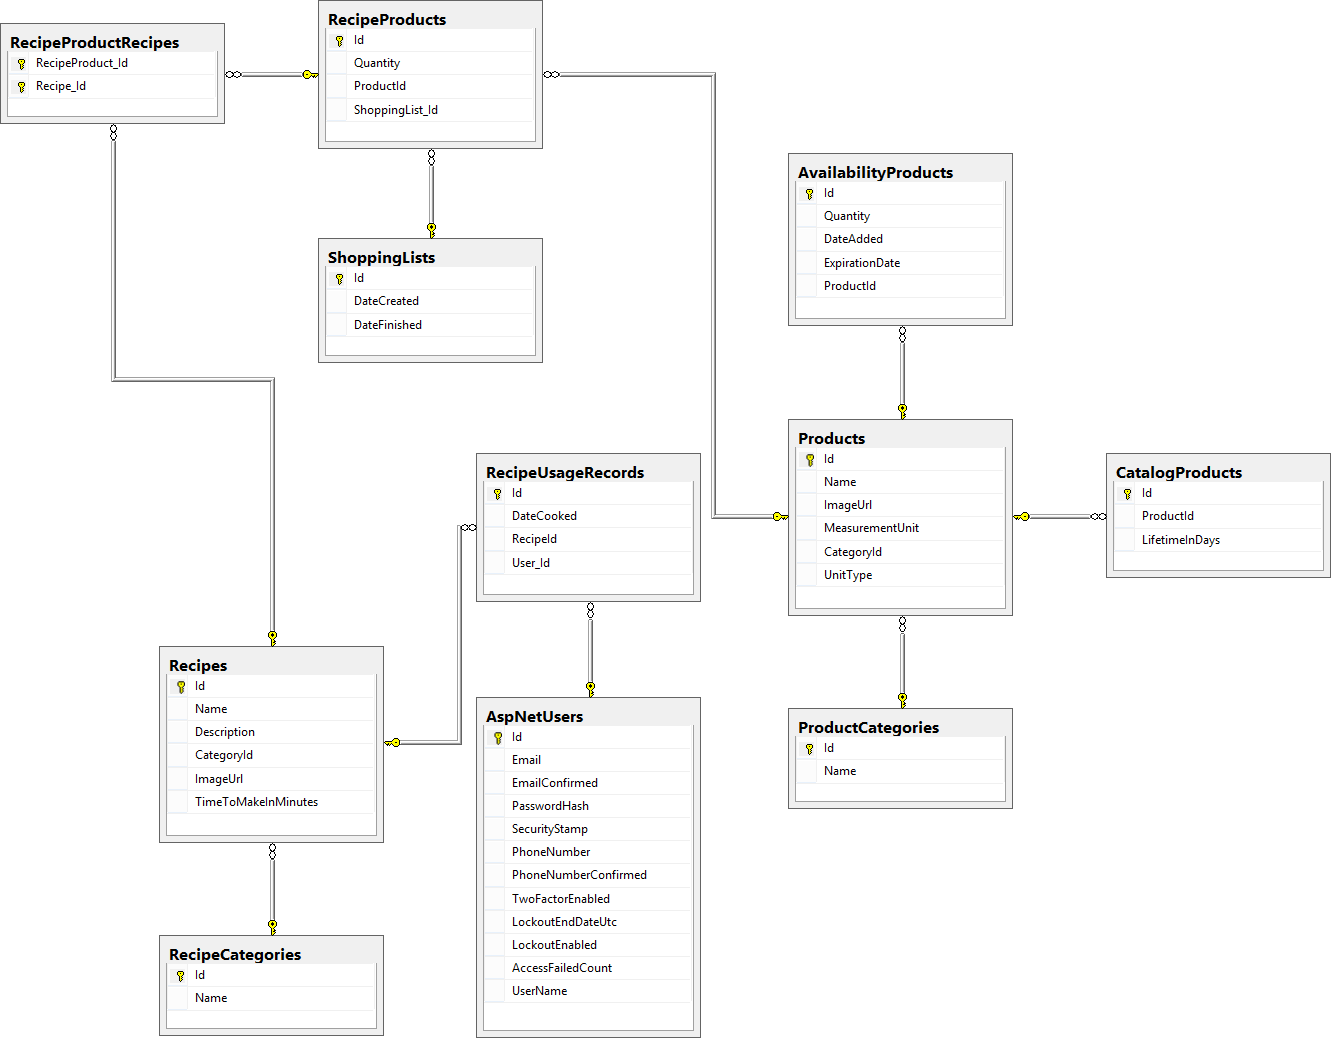
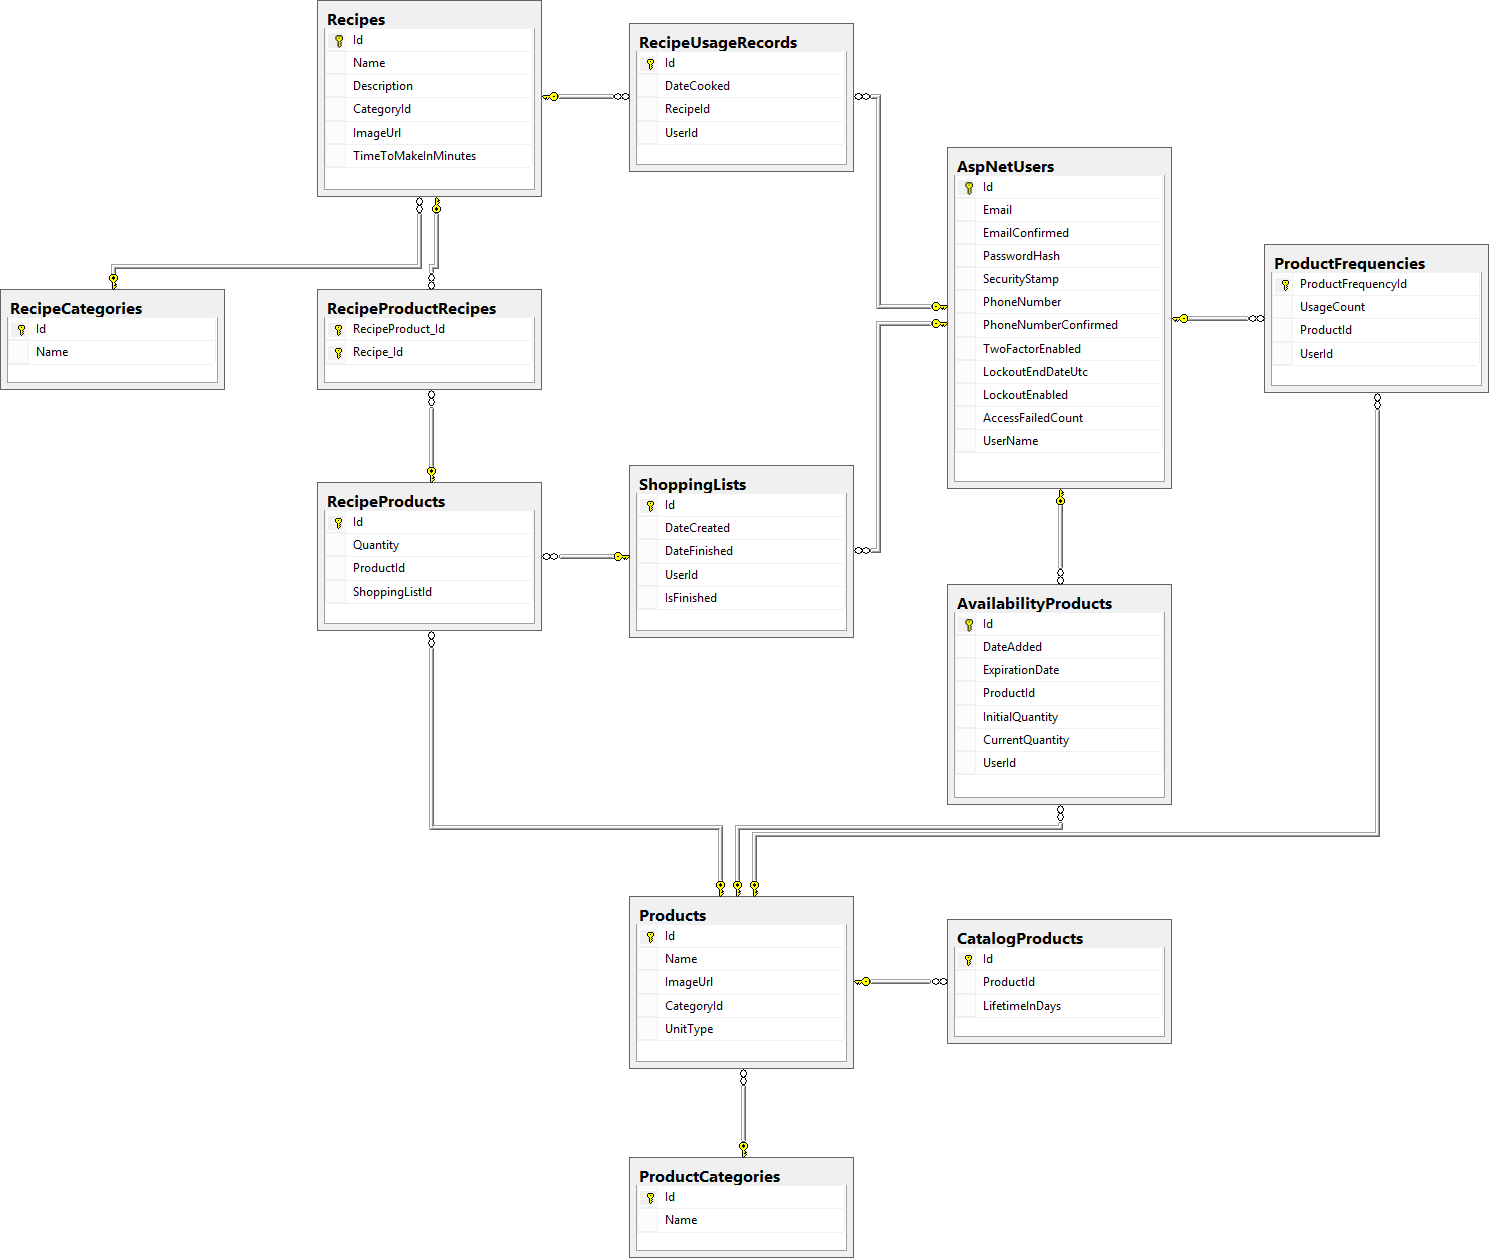
Models Updated, Diagram Updated, UoW Updated

diff --git a/YourFood.Services/Controllers/OData/ProductFrequenciesController.cs b/YourFood.Services/Controllers/OData/ProductFrequenciesController.cs
@@ -1,0 +1,137 @@
+namespace YourFood.Services.Controllers.OData
+{
+    using System;
+    using System.Data.Entity.Infrastructure;
+    using System.Linq;
+    using System.Net;
+    using System.Web.Http;
+    using System.Web.Http.OData;
+    using YourFood.Data.UoW;
+    using YourFood.Models;
+
+    public class ProductFrequenciesController : BaseODataController
+    {
+        public ProductFrequenciesController(IYourFoodData yourFoodData)
+            : base(yourFoodData)
+        {
+        }
+
+        // GET: api/ProductFrequencies
+        [EnableQuery]
+        public IQueryable<ProductFrequency> GetProductFrequencies()
+        {
+            return this.Data.ProductFrequencies.All();
+        }
+
+        // GET: api/ProductFrequencies(5)
+        [EnableQuery]
+        public SingleResult<ProductFrequency> GetProductFrequency([FromODataUri]
+                                                                  int key)
+        {
+            var product = this.Data.ProductFrequencies
+                              .All()
+                              .Where(productFrequency => productFrequency.ProductFrequencyId == key);
+
+            return SingleResult.Create(product);
+        }
+
+        // PUT: api/ProductFrequencies(5)
+        public IHttpActionResult Put([FromODataUri]
+                                     int key, Delta<ProductFrequency> patch)
+        {
+            this.Validate(patch.GetEntity());
+
+            if (!this.ModelState.IsValid)
+            {
+                return this.BadRequest(this.ModelState);
+            }
+
+            ProductFrequency productFrequency = this.Data.ProductFrequencies.Find(key);
+            if (productFrequency == null)
+            {
+                return this.NotFound();
+            }
+
+            patch.Put(productFrequency);
+
+            try
+            {
+                this.Data.SaveChanges();
+            }
+            catch (DbUpdateConcurrencyException)
+            {
+                if (!this.ProductFrequencyExists(key))
+                {
+                    return this.NotFound();
+                }
+                else
+                {
+                    throw;
+                }
+            }
+
+            return this.Updated(productFrequency);
+        }
+
+        // POST: api/ProductFrequencies
+        public IHttpActionResult Post(ProductFrequency productFrequency)
+        {
+            if (!this.ModelState.IsValid)
+            {
+                return this.BadRequest(this.ModelState);
+            }
+
+            this.Data.ProductFrequencies.Add(productFrequency);
+            this.Data.SaveChanges();
+
+            return this.Created(productFrequency);
+        }
+
+        // DELETE: api/ProductFrequencies(5)
+        public IHttpActionResult Delete([FromODataUri]
+                                        int key)
+        {
+            ProductFrequency productFrequency = this.Data.ProductFrequencies.Find(key);
+            if (productFrequency == null)
+            {
+                return this.NotFound();
+            }
+
+            this.Data.ProductFrequencies.Delete(productFrequency);
+            this.Data.SaveChanges();
+
+            return this.StatusCode(HttpStatusCode.NoContent);
+        }
+
+        // GET: api/ProductFrequencies(5)/Product
+        [EnableQuery]
+        public SingleResult<Product> GetProduct([FromODataUri]
+                                                int key)
+        {
+            var product = this.Data.ProductFrequencies
+                              .All()
+                              .Where(m => m.ProductFrequencyId == key)
+                              .Select(m => m.Product);
+
+            return SingleResult.Create(product);
+        }
+
+        // GET: api/ProductFrequencies(5)/User
+        [EnableQuery]
+        public SingleResult<User> GetUser([FromODataUri]
+                                          int key)
+        {
+            var user = this.Data.ProductFrequencies
+                           .All()
+                           .Where(m => m.ProductFrequencyId == key)
+                           .Select(m => m.User);
+
+            return SingleResult.Create(user);
+        }
+
+        private bool ProductFrequencyExists(int key)
+        {
+            return this.Data.ProductFrequencies.All().Count(e => e.ProductFrequencyId == key) > 0;
+        }
+    }
+}

diff --git a/YourFood.ConsoleClient/YourFoodConsoleClient.cs b/YourFood.ConsoleClient/YourFoodConsoleClient.cs
@@ -68,10 +68,10 @@
             };
 
             strawberryPretzelSalad.Ingredients.Add(new RecipeProduct()
-                {
-                    ProductId = yourFoodData.Products.All().FirstOrDefault(p => p.Name == "Butter").Id,
-                    Quantity = 225,
-                });
+            {
+                ProductId = yourFoodData.Products.All().FirstOrDefault(p => p.Name == "Butter").Id,
+                Quantity = 225,
+            });
 
             strawberryPretzelSalad.Ingredients.Add(new RecipeProduct()
             {
@@ -744,7 +744,6 @@
             Console.WriteLine("Recipe categories added.");
         }
 
-
         private static void SeedCatalogProducts()
         {
             Dictionary<string, int> productLifetimes = new Dictionary<string, int>();
@@ -818,15 +817,15 @@
             productLifetimes.Add("Yellow cheese", 1);
             productLifetimes.Add("Zucchini", 1);
 
-            foreach(var item in productLifetimes)
+            foreach (var item in productLifetimes)
             {
                 var product = yourFoodData.Products.All().FirstOrDefault(p => p.Name == item.Key);
 
                 yourFoodData.CatalogProducts.Add(new CatalogProduct()
-                    {
-                        ProductId = product.Id,
-                        LifetimeInDays = item.Value
-                    });
+                {
+                    ProductId = product.Id,
+                    LifetimeInDays = item.Value
+                });
             }
 
             yourFoodData.SaveChanges();
@@ -941,14 +940,13 @@
                 var fileBytes = File.ReadAllBytes(productsInfo[i].Item2);
                 using (MemoryStream ms = new MemoryStream(fileBytes))
                 {
-                    string pictureUrl = uploader.UrlFromMemoryStream(ms);
                     yourFoodData.Products.Add(new Product()
-                        {
-                            Name = productsInfo[i].Item1,
-                            ImageUrl = uploader.UrlFromMemoryStream(ms),
-                            CategoryId = productsInfo[i].Item3.Id,
-                            UnitType = productsInfo[i].Item4
-                        });
+                    {
+                        Name = productsInfo[i].Item1,
+                        ImageUrl = uploader.UrlFromMemoryStream(ms),
+                        CategoryId = productsInfo[i].Item3.Id,
+                        UnitType = productsInfo[i].Item4
+                    });
                 }
             }
 
@@ -965,7 +963,7 @@
 
             string[] categoryNames = 
             {
-                "Meat", "Fish", "Dairy", "Fruit", "Vegetable", "Sauce", "Cooked", "Canned", "Drink", "Nut", "Flavor", "Pastry" 
+                "Meat", "Fish", "Dairy", "Fruit", "Vegetable", "Sauce", "Cooked", "Canned", "Drink", "Nut", "Flavor", "Pastry"
             };
 
             string[] categoryImages = { "" };
@@ -973,13 +971,13 @@
             for (int i = 0; i < categoryNames.Length; i++)
             {
                 yourFoodData.ProductCategories.Add(new ProductCategory()
-                    {
-                        Name = categoryNames[i]
-                    });
+                {
+                    Name = categoryNames[i]
+                });
             }
 
             yourFoodData.SaveChanges();
             Console.WriteLine("Product categories added.");
         }
-    }   
+    }
 }

diff --git a/YourFood.Models/ProductFrequency.cs b/YourFood.Models/ProductFrequency.cs
@@ -4,16 +4,16 @@
     using System.ComponentModel.DataAnnotations;
     using System.Linq;
 
-    public class RecipeUsageRecord
+    public class ProductFrequency
     {
         [Key]
-        public int Id { get; set; }
+        public int ProductFrequencyId { get; set; }
 
-        public DateTime DateCooked { get; set; }
+        public int UsageCount { get; set; }
 
-        public int RecipeId { get; set; }
+        public int ProductId { get; set; }
 
-        public virtual Recipe Recipe { get; set; }
+        public virtual Product Product { get; set; }
 
         public string UserId { get; set; }
 

diff --git a/YourFood.Services/App_Start/WebApiConfig.cs b/YourFood.Services/App_Start/WebApiConfig.cs
@@ -20,6 +20,8 @@
             builder.EntitySet<ProductCategory>("ProductCategories");
             builder.EntitySet<Product>("Products"); 
             builder.EntitySet<Recipe>("Recipes");
+            builder.EntitySet<ProductFrequency>("ProductFrequencies");
+            builder.EntitySet<User>("Users");
             builder.EntitySet<RecipeCategory>("RecipeCategories");
             builder.EntitySet<RecipeProduct>("RecipeProducts"); 
             builder.EntitySet<ProductCategory>("ProductCategories"); 

diff --git a/YourFood.Data/UoW/YourFoodData.cs b/YourFood.Data/UoW/YourFoodData.cs
@@ -97,6 +97,14 @@
             }
         }
 
+        public IGenericRepository<ProductFrequency> ProductFrequencies
+        {
+            get
+            {
+                return this.GetRepository<ProductFrequency>();
+            }
+        }
+
         public int SaveChanges()
         {
             return this.context.SaveChanges();

diff --git a/YourFood.Data/DbContext/YourFoodDbContext.cs b/YourFood.Data/DbContext/YourFoodDbContext.cs
@@ -33,6 +33,8 @@ namespace YourFood.Data.DbContext
 
         public IDbSet<ShoppingList> ShoppingLists { get; set; }
 
+        public IDbSet<ProductFrequency> ProductFrequencies { get; set; }
+
         public static YourFoodDbContext Create()
         {
             return new YourFoodDbContext();

diff --git a/YourFood.Models/RecipeProduct.cs b/YourFood.Models/RecipeProduct.cs
@@ -23,6 +23,10 @@
 
         public virtual Product Product { get; set; }
 
+        public int ShoppingListId { get; set; }
+
+        public virtual ShoppingList ShoppingList { get; set; }
+
         public virtual ICollection<Recipe> Recipes
         {
             get

diff --git a/YourFood.Data/DbContext/IYourFoodDbContext.cs b/YourFood.Data/DbContext/IYourFoodDbContext.cs
@@ -24,5 +24,7 @@ namespace YourFood.Data.DbContext
         IDbSet<RecipeUsageRecord> RecipeUsageRecords { get; set; }
 
         IDbSet<ShoppingList> ShoppingLists { get; set; }
+
+        IDbSet<ProductFrequency> ProductFrequencies { get; set; }
     }
 }

diff --git a/YourFood.Data/UoW/IYourFoodData.cs b/YourFood.Data/UoW/IYourFoodData.cs
@@ -27,6 +27,8 @@
 
         IGenericRepository<ShoppingList> ShoppingLists { get; }
 
+        IGenericRepository<ProductFrequency> ProductFrequencies { get; }
+
         int SaveChanges();
     }
 }
